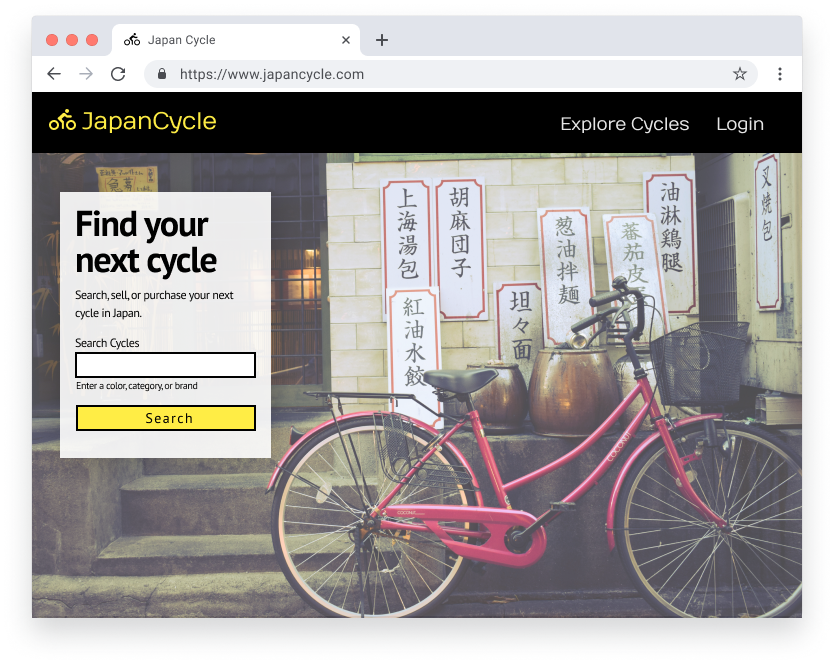
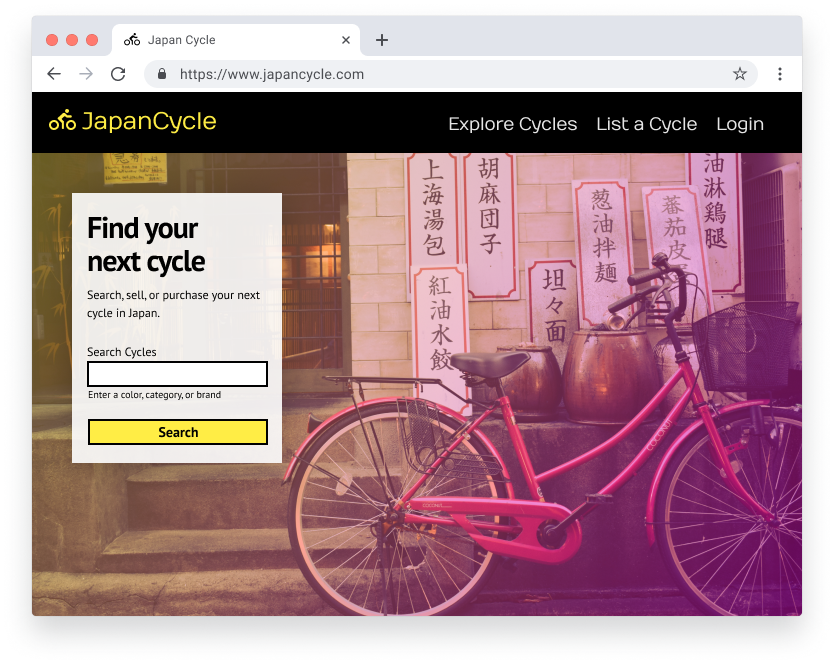
added images to japan cycle carousel

diff --git a/index.html b/index.html
@@ -10,7 +10,7 @@
   <meta name="viewport" content="width=device-width, initial-scale=1.0">
   <link rel="stylesheet" href="https://maxcdn.bootstrapcdn.com/bootstrap/4.3.1/css/bootstrap.min.css">
   <link rel="stylesheet" type="text/css" href="main.css">
-  <link href="https://fonts.googleapis.com/css?family=Lora:400,700|Playfair+Display:900&display=swap" rel="stylesheet">
+  <link href="https://fonts.googleapis.com/css?family=Open+Sans:400,700|Playfair+Display:900&display=swap" rel="stylesheet">
 </head>
 
 <body>
@@ -211,13 +211,13 @@
         <h2>About Me</h2>
         <div class="about-me-container">
           <div id="avatar">
-            <img src="assets/images/avatarImg.jpg" class="profile-img" alt="">
+            <img src="assets/images/laura-abowd-profile.jpg" class="profile-img" alt="">
           </div>
           <!--   <h6 class=text-6> Howdy!</h6> -->
           <p class="about-me">
             I'm Laura, a former public school teacher with over ten years experience in the classroom. I am super passionate about helping others and want to create positive experiences for people through design and technology that solves real-world needs.
             <br><br>
-            I started my journey into programming by taking night courses at my local community college. After learning the basics and succesfully designing and prototyping multiple applications, I enrolled in a full-time coding program in Tokyo, Japan.
+            I started my journey into programming taking night courses at my local community college. After learning the basics and succesfully designing and prototyping mobile applications, I enrolled in a full-time coding program in Tokyo, Japan.
             <br><br>
             I am continuing my development by yada yada and, of course, eating lots of Spam for breakfast.
           </p>
@@ -290,17 +290,20 @@
                   <img src="assets/images/laura-abowd-japancycle-1.png" class="d-block w-100" alt="...">
                 </div>
                 <div class="carousel-item item carousel-image">
-                  <img src="assets/images/browser-window.png" class="d-block w-100" alt="...">
+                  <img src="assets/images/laura-abowd-japancycle-2.png" class="d-block w-100" alt="...">
                 </div>
                 <div class="carousel-item item carousel-image">
-                  <img src="assets/images/browser-window.png" class="d-block w-100" alt="...">
+                  <img src="assets/images/laura-abowd-japancycle-3.png" class="d-block w-100" alt="...">
+                </div>
+                <div class="carousel-item item carousel-image">
+                  <img src="assets/images/laura-abowd-japancycle-4.png" class="d-block w-100" alt="...">
                 </div>
               </div>
-              <a class="carousel-control-prev" href="#carouselExampleControls" role="button" data-slide="prev">
+              <a class="carousel-control-prev" href="#carousel-two" role="button" data-slide="prev">
                 <span class="carousel-control-prev-icon" aria-hidden="true"></span>
                 <span class="sr-only">Previous</span>
               </a>
-              <a class="carousel-control-next" href="#carouselExampleControls" role="button" data-slide="next">
+              <a class="carousel-control-next" href="#carousel-two" role="button" data-slide="next">
                 <span class="carousel-control-next-icon" aria-hidden="true"></span>
                 <span class="sr-only">Next</span>
               </a>
@@ -323,7 +326,13 @@
             <p>Timeline</p>
           </div>
           <div class="">Product Lead, UX Designer, Front-End Developer</div>
-          <div class="">Ruby on Rails, Figma, Github</div>
+          <div class="">
+            <ul>
+              <li>Ruby on Rails</li>
+              <li>Figma</li>
+              <li>Github</li>
+            </ul>
+          </div>
           <div class="">One Week</div>
         </div>
       </div>

diff --git a/main.css b/main.css
@@ -2,7 +2,7 @@
   --background-color: #FFF5ED;
   --blue-primary: #001640;
   --pink-accent: #FD96A0;
-  --base: 'Lora', serif;
+  --base: 'Open Sans', sans-serif;
   --header: 'Playfair Display', serif;
 }
 
@@ -57,7 +57,9 @@ h1 {
 
 .p-bold-text {
   font-weight: bold;
-  font-size: 24px;
+  font-size: 18px;
+  text-transform: uppercase;
+  letter-spacing: 2px;
 }
 
 .color-separator {
@@ -65,8 +67,7 @@ h1 {
 }
 
 .hero-image {
-  max-width: 1200px;
-  width: 70%;
+  width: 1000px;
   margin-bottom: -200px;
 }
 
@@ -137,7 +138,7 @@ path.arrow-down {
 }
 
 .profile-img {
-  width: 200px;
+  width: 240px;
   border-radius: 50%;
 }
 
@@ -174,7 +175,7 @@ h2 {
   grid-column-start: span 2;
   /* justify-content: center;*/
   align-items: center;
-  align-self: center;
+  align-self: start;
 }
 
 .project-container {
@@ -234,9 +235,19 @@ h2 {
   background-color: var(--pink-accent);
 }
 
+
+/*Tablet styles*/
+@media (max-width: 750px) {
+  .hero-image {
+    width: 700px;
+    margin-bottom: -140px;
+  }
+}
+
 /*Phone styles*/
 @media (max-width: 450px) {
   .hero-image {
-    width: 90%;
+    width: 500px;
+    margin-bottom: -80px;
   }
 }
